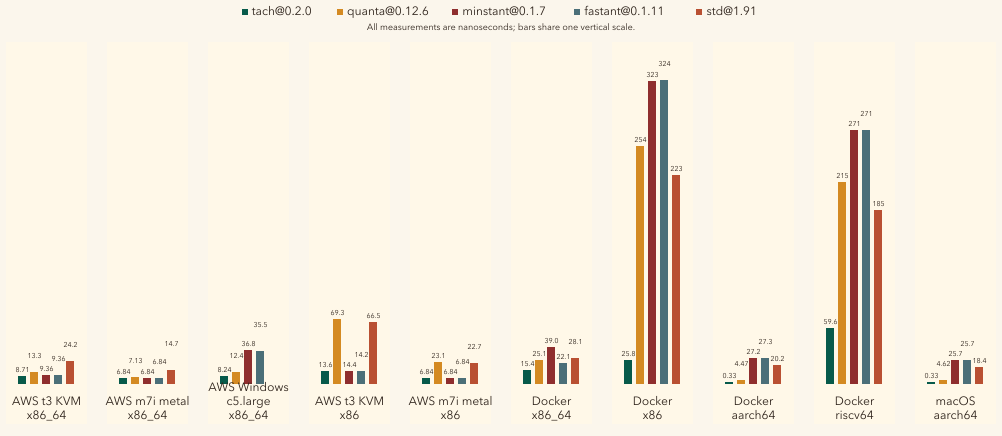
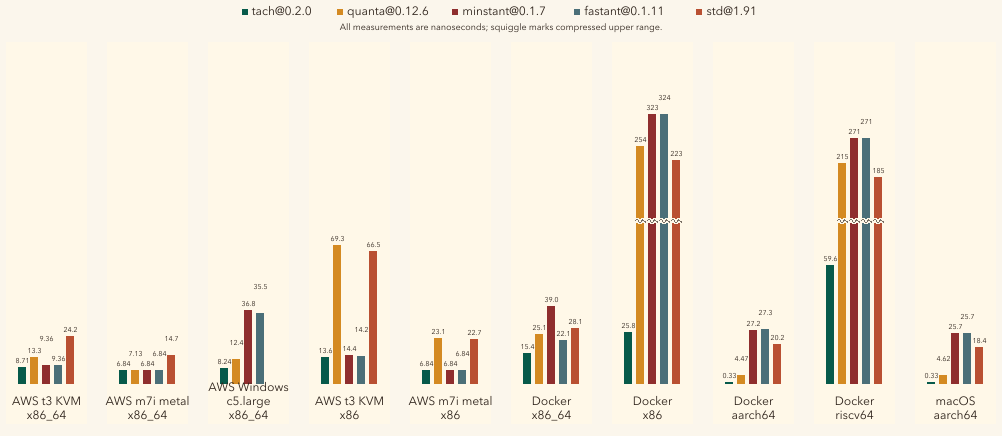
docs(readme): add benchmark break markers

diff --git a/benches/assets/render_benchmark.py b/benches/assets/render_benchmark.py
@@ -51,7 +51,10 @@ NOTE_Y = 30
 GROUP_TOP = 42
 GROUP_HEIGHT = 382
 BAR_BOTTOM = 384
-MAX_BAR_HEIGHT = 304
+BREAK_VALUE = 80.0
+LOWER_BAR_HEIGHT = 160
+UPPER_BAR_HEIGHT = 110
+MAX_BAR_HEIGHT = LOWER_BAR_HEIGHT + UPPER_BAR_HEIGHT
 VALUE_FONT_SIZE = 7
 LABEL_FONT_SIZE = 12
 LEGEND_FONT_SIZE = LABEL_FONT_SIZE
@@ -79,6 +82,28 @@ def text(x: float, y: float, value: str, size: int, anchor: str = "middle") -> s
 
 def text_width(value: str, size: int) -> float:
   return len(value) * size * 0.56
+
+
+def bar_height(value: float) -> int:
+  if value <= BREAK_VALUE:
+    return max(2, round(value / BREAK_VALUE * LOWER_BAR_HEIGHT))
+  upper = (value - BREAK_VALUE) / (GLOBAL_MAX - BREAK_VALUE) * UPPER_BAR_HEIGHT
+  return round(LOWER_BAR_HEIGHT + upper)
+
+
+def bar_break(x: float) -> list[str]:
+  y = BAR_BOTTOM - LOWER_BAR_HEIGHT
+  path = (
+    f"M{x - 1:g} {y - 3:g} "
+    f"C{x + 1:g} {y - 8:g} {x + 3:g} {y + 2:g} {x + 5:g} {y - 3:g} "
+    f"S{x + 9:g} {y + 2:g} {x + BAR_WIDTH + 1:g} {y - 3:g}"
+  )
+  return [
+    f'<path d="{path}" stroke="{GROUP_BACKGROUND}" stroke-width="4" fill="none" stroke-linecap="round"/>',
+    '<path '
+    f'd="{path}" stroke="#2E231B" stroke-width="0.8" fill="none" '
+    'stroke-linecap="round" opacity="0.65"/>',
+  ]
 
 
 def render_svg() -> str:
@@ -112,7 +137,7 @@ def render_svg() -> str:
       f'<text x="{x + LEGEND_SQUARE + 4:g}" y="{LEGEND_Y:g}" text-anchor="start" '
       f'font-family="{FONT}" font-size="{LEGEND_FONT_SIZE}" fill="#2E231B">{esc(name)}</text>'
     )
-  parts.append(text(width / 2, NOTE_Y, "All measurements are nanoseconds; bars share one vertical scale.", 9))
+  parts.append(text(width / 2, NOTE_Y, "All measurements are nanoseconds; squiggle marks compressed upper range.", 9))
 
   for group_x, (labels, values) in zip(group_xs, GROUPS):
     parts.append(
@@ -125,7 +150,7 @@ def render_svg() -> str:
     for i, value in enumerate(values):
       if value is None:
         continue
-      height = max(2, round(value / GLOBAL_MAX * MAX_BAR_HEIGHT))
+      height = bar_height(value)
       x = bar_x + i * (BAR_WIDTH + BAR_GAP)
       y = BAR_BOTTOM - height
       color = CRATES[i][1]
@@ -141,6 +166,8 @@ def render_svg() -> str:
         label_y -= VALUE_FONT_SIZE + 3
       placed_labels.append((label_x, label_y, width_estimate))
       parts.append(f'<rect x="{x:g}" y="{y:g}" width="{BAR_WIDTH}" height="{height}" fill="{color}"/>')
+      if value > BREAK_VALUE:
+        parts.extend(bar_break(x))
       parts.append(text(label_x, label_y, label, VALUE_FONT_SIZE))
 
     center = group_x + GROUP_WIDTH / 2

diff --git a/README.md b/README.md
@@ -15,8 +15,8 @@ Full target/environment results: [runtime selection validation](benches/runtime-
 Pinned m7i GNU rerun: [high-confidence benchmark](benches/m7i-gnu-high-confidence-2026-05-08.md).
 
 The primary benchmark is `Instant::now()` read cost across target/environment
-pairs. Bars use one shared vertical scale so target environments are directly
-comparable.
+pairs. Bars use one shared broken scale; squiggles mark the compressed upper
+range for Docker outliers.
 
 Fresh validation runs below were produced with
 `tools/selection-validation-runner` on May 8, 2026. Each row was enforced

diff --git a/PROJECT.md b/PROJECT.md
@@ -8,6 +8,7 @@ tach provides a zero-dependency Rust API for reading fast CPU or platform tick c
 
 - [x] Fix macOS x86_64 self-patching call-target corruption
 - [x] Rename crate and GitHub repository to `tach`
+- [x] Add broken-scale squiggles to Docker benchmark outliers
 - [x] Drop libc and ABI suffixes from chart labels
 - [x] Add Windows c5.large to shared-scale benchmark chart
 - [x] Add benchmark chart crate versions and wider bars
